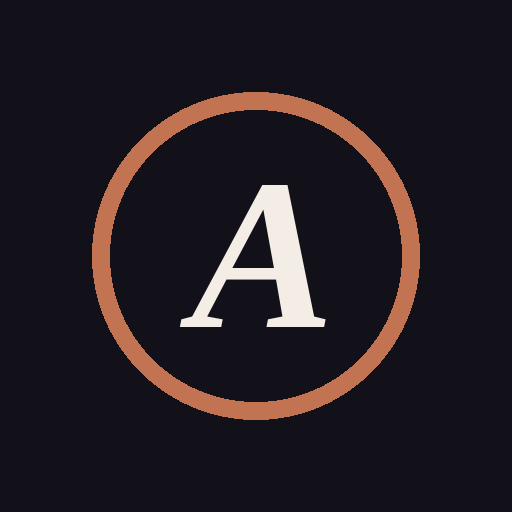
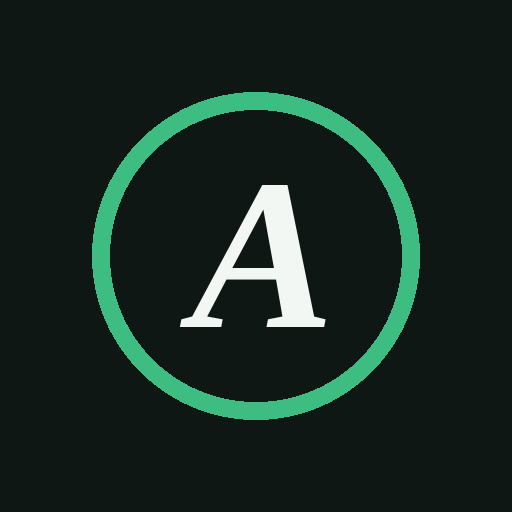
Paletas: se quita Terracota, Bosque pasa a ser la de serie y se añade Nude rosa; icono y web en verde
Claude-Session: https://claude.ai/code/session_01FaLb4RmPz5LiHvw63dEbow

Changed region(s): [[0.1562, 0.1562, 0.8438, 0.8438]]

diff --git a/app.js b/app.js
@@ -47,16 +47,16 @@ function render(){
   if(_rendering){setTimeout(render,0);return;}
   _rendering=true;try{_render();}finally{_rendering=false;}
 }
-const PALS={terracota:["Terracota","Cálida y sobria",["#121019","#C17352","#E8956F"]],bosque:["Bosque","Verde: calma y menos esfuerzo percibido",["#0E1713","#3DBE82","#6FDBA5"]],energia:["Energía","Grafito y naranja vivo",["#0F0F11","#FF7A1A","#FF9A4D"]],oceano:["Océano","Azul turquesa, fría y limpia",["#0C1620","#2BB6D6","#6AD3EA"]]};
+const PALS={bosque:["Bosque","Verde: calma y menos esfuerzo percibido",["#0E1713","#3DBE82","#6FDBA5"]],energia:["Energía","Grafito y naranja vivo",["#0F0F11","#FF7A1A","#FF9A4D"]],oceano:["Océano","Azul turquesa, fría y limpia",["#0C1620","#2BB6D6","#6AD3EA"]],nude:["Nude rosa","Tonos nude y rosa, suave y cálida",["#FAF3EF","#E59AA6","#A8455E"]]};
 function applyDisplay(){
   const u=S.ui||{};const t=u.theme||"oscuro";
   const light=t==="claro"||(t==="auto"&&window.matchMedia&&matchMedia("(prefers-color-scheme: light)").matches);
-  const r=document.documentElement;r.dataset.theme=light?"light":"dark";r.dataset.size=u.size==="grande"?"big":"normal";r.dataset.pal=PALS[u.pal]?u.pal:"terracota";
-  const m=document.querySelector('meta[name="theme-color"]');if(m)m.content=getComputedStyle(r).getPropertyValue("--bg").trim()||(light?"#F6F2EC":"#121019");
+  const r=document.documentElement;r.dataset.theme=light?"light":"dark";r.dataset.size=u.size==="grande"?"big":"normal";r.dataset.pal=PALS[u.pal]?u.pal:"bosque";
+  const m=document.querySelector('meta[name="theme-color"]');if(m)m.content=getComputedStyle(r).getPropertyValue("--bg").trim()||(light?"#F1F6F2":"#0E1713");
 }
 function displayCard(){const u=S.ui||{};const b=(k,v,t)=>`<button class="${(u[k]||(k==="theme"?"oscuro":"normal"))===v?"on":""}" data-a="uiSet" data-k="${k}" data-v="${v}">${t}</button>`;
   return `<div class="card stack"><span class="lbl">Pantalla</span><div class="field"><span>Tema</span><div class="seg">${b("theme","oscuro","Oscuro")}${b("theme","claro","Claro")}${b("theme","auto","Como el móvil")}</div><span class="hint">El claro se lee mejor con sol o mucha luz, por ejemplo en el gimnasio.</span></div>
-  <div class="field"><span>Estilo de color</span><div class="pals">${Object.entries(PALS).map(([k,[t,d,c]])=>`<button type="button" class="pal ${(u.pal||"terracota")===k?"on":""}" data-a="uiSet" data-k="pal" data-v="${k}"><span class="sw">${c.map(x=>`<i style="background:${x}"></i>`).join("")}</span><span><b>${t}</b><small>${d}</small></span></button>`).join("")}</div><span class="hint">Prueba uno unos días. Se aplica a todo, también al modo claro.</span></div>
+  <div class="field"><span>Estilo de color</span><div class="pals">${Object.entries(PALS).map(([k,[t,d,c]])=>`<button type="button" class="pal ${(PALS[u.pal]?u.pal:"bosque")===k?"on":""}" data-a="uiSet" data-k="pal" data-v="${k}"><span class="sw">${c.map(x=>`<i style="background:${x}"></i>`).join("")}</span><span><b>${t}</b><small>${d}</small></span></button>`).join("")}</div><span class="hint">Prueba uno unos días. Se aplica a todo, también al modo claro.</span></div>
   <div class="field"><span>Dieta, compra y recetas</span><div class="seg">${b("nutri","si","Activadas").replace('data-a="uiSet"','data-a="nutriSet"').replace(/class="[^"]*"/,`class="${NUTRI?"on":""}"`)}${b("nutri","no","Desactivadas").replace('data-a="uiSet"','data-a="nutriSet"').replace(/class="[^"]*"/,`class="${NUTRI?"":"on"}"`)}</div><span class="hint">Menú semanal con tus calorías y macros, lista de la compra y recetas sencillas. Es opcional: el entrenamiento funciona igual sin ello.</span></div>
   <div class="field"><span>Tamaño de letra</span><div class="seg">${b("size","normal","Normal")}${b("size","grande","Grande")}</div></div></div>`;}
 function isLight(){const t=(S.ui||{}).theme||"oscuro";return t==="claro"||(t==="auto"&&window.matchMedia&&matchMedia("(prefers-color-scheme: light)").matches);}

diff --git a/web/web.html b/web/web.html
@@ -3,12 +3,12 @@
 <meta name="viewport" content="width=device-width,initial-scale=1">
 <title>Afina · Entrena con un plan que sabe cuánto levantas</title>
 <meta name="description" content="Afina es una app de entrenamiento que reconoce tu nivel y te da el peso con el que empezar. Plan de gimnasio, Hyrox, CrossFit, calistenia, paddle surf y fascias. Sin cuenta y con tus datos en tu móvil.">
-<meta name="theme-color" content="#121019"><link rel="icon" href="icon-192.png"><link rel="apple-touch-icon" href="icon-512.png">
+<meta name="theme-color" content="#0E1713"><link rel="icon" href="icon-192.png"><link rel="apple-touch-icon" href="icon-512.png">
 <meta property="og:title" content="Afina"><meta property="og:description" content="Un plan de entrenamiento que sabe cuánto levantas."><meta property="og:image" content="icon-512.png">
 <link rel="preconnect" href="https://fonts.googleapis.com"><link rel="preconnect" href="https://fonts.gstatic.com" crossorigin>
 <link rel="stylesheet" href="https://fonts.googleapis.com/css2?family=Playfair+Display:wght@600;700&family=Instrument+Sans:wght@400;500;600;700&display=swap">
 <style>
-:root{--bg:#121019;--surface:#1B1823;--sunk:#25202E;--hero:#261F34;--ink:#FAF6F1;--muted:#C2BBCB;--line:#3A3446;--accent:#C17352;--accent-t:#E8956F;--accent-ink:#FFF6F0;
+:root{--bg:#0E1713;--surface:#16231D;--sunk:#1E2E26;--hero:#1A2B22;--ink:#F2F7F3;--muted:#B4C4BA;--line:#2F4439;--accent:#3DBE82;--accent-t:#6FDBA5;--accent-ink:#06150D;
 --fd:"Playfair Display",Georgia,serif;--fb:"Instrument Sans",system-ui,-apple-system,"Segoe UI",sans-serif;color-scheme:dark}
 *{box-sizing:border-box}html{scroll-behavior:smooth}
 body{margin:0;background:var(--bg);color:var(--ink);font-family:var(--fb);font-size:17px;line-height:1.55;-webkit-font-smoothing:antialiased}
@@ -18,7 +18,7 @@ header{display:flex;align-items:center;justify-content:space-between;padding:18p
 .brand{display:flex;align-items:center;gap:10px;font-family:var(--fd);font-size:1.35rem;font-weight:700;color:var(--ink);text-decoration:none}
 .brand img{width:34px;height:34px;border-radius:9px}
 .btn{display:inline-flex;align-items:center;justify-content:center;min-height:50px;padding:0 24px;border-radius:14px;font-weight:600;font-size:1rem;text-decoration:none;border:1px solid var(--line);color:var(--ink);background:var(--surface)}
-.btn.pri{background:var(--accent);border-color:var(--accent);color:var(--accent-ink);box-shadow:0 10px 30px -12px rgba(193,115,82,.8)}
+.btn.pri{background:var(--accent);border-color:var(--accent);color:var(--accent-ink);box-shadow:0 10px 30px -12px rgba(61,190,130,.55)}
 .btn.sm{min-height:40px;padding:0 16px;font-size:.92rem}
 h1,h2,h3{font-family:var(--fd);letter-spacing:-.01em;text-wrap:balance;margin:0}
 h1{font-size:clamp(2.2rem,6.4vw,3.9rem);line-height:1.06}
@@ -30,7 +30,7 @@ h3{font-size:1.2rem}
 .hero p.lead{font-size:1.15rem;color:var(--muted);max-width:34em;margin:18px 0 26px}
 .cta{display:flex;gap:12px;flex-wrap:wrap}
 .note{font-size:.88rem;color:var(--muted);margin-top:14px}
-.phone{width:min(300px,78vw);margin:0 auto;border-radius:38px;padding:10px;background:linear-gradient(160deg,#3a3446,#1b1823);box-shadow:0 40px 80px -30px rgba(0,0,0,.9),0 0 0 1px #453e52}
+.phone{width:min(300px,78vw);margin:0 auto;border-radius:38px;padding:10px;background:linear-gradient(160deg,#2f4439,#16231d);box-shadow:0 40px 80px -30px rgba(0,0,0,.9),0 0 0 1px #3a5245}
 .phone img{border-radius:29px;width:100%}
 section{padding:58px 0;border-top:1px solid var(--line)}
 .split{display:grid;grid-template-columns:1fr 1fr;gap:44px;align-items:center}

diff --git a/style.css b/style.css
@@ -1,7 +1,7 @@
 /* Layout: app de una columna centrada; barra inferior en móvil, barra lateral en escritorio */
 :root{
-  --bg:#121019; --surface:#1B1823; --sunk:#25202E; --hero:#261F34; --ink:#FAF6F1; --muted:#C2BBCB; --line:#3A3446;
-  --accent:#C17352; --accent-t:#E8956F; --accent-ink:#FFF6F0; --accent-soft:#3F2921;
+  --bg:#0E1713; --surface:#16231D; --sunk:#1E2E26; --hero:#1A2B22; --ink:#F2F7F3; --muted:#B4C4BA; --line:#2F4439;
+  --accent:#3DBE82; --accent-t:#6FDBA5; --accent-ink:#06150D; --accent-soft:#1B3A2C;
   --ok:#7DC59C; --ok-soft:#1C3227; --warn:#E3AA5A; --warn-soft:#382B19; --bad:#E7826E; --bad-soft:#3C201C;
   --prot:#E39A78; --fat:#E2B65C; --carb:#8EA9DD;
   --f-display:"Playfair Display",Georgia,"Times New Roman",serif;
@@ -308,7 +308,7 @@ a{color:var(--accent)}
 .medal .inner{fill:none;stroke:var(--line);stroke-width:1}
 .medal.bronce .disc{fill:#a8703f;stroke:#c98d57}.medal.bronce .rib{fill:#7a4f2c}
 .medal.plata .disc{fill:#9ea4ad;stroke:#c9ced6}.medal.plata .rib{fill:#6d737c}
-.medal.oro .disc{fill:#c99a2e;stroke:#e8c25a}.medal.oro .rib{fill:#C17352}
+.medal.oro .disc{fill:#c99a2e;stroke:#e8c25a}.medal.oro .rib{fill:var(--accent)}
 .medal.platino .disc{fill:#8fc9c4;stroke:#c5ece8}.medal.platino .rib{fill:#4f8f8a}
 .medal:not(.off) .inner{stroke:rgba(255,255,255,.45)}
 .medal.off{opacity:.55}
@@ -347,8 +347,8 @@ ol.mob li span{display:block}
 
 /* ===== Tema claro y tamaño de letra ===== */
 :root[data-theme="light"]{
-  --bg:#F6F2EC; --surface:#FFFFFF; --sunk:#EFE8E0; --hero:#F7EAE1; --ink:#1C1820; --muted:#57505F; --line:#D9CFC4;
-  --accent:#A9532F; --accent-t:#9A4A29; --accent-ink:#FFFFFF; --accent-soft:#F7E2D7;
+  --bg:#F1F6F2; --surface:#FFFFFF; --sunk:#E6EEE8; --hero:#E3F0E8; --ink:#14201A; --muted:#4B5A51; --line:#CCD9D0;
+  --accent:#17663F; --accent-t:#145C39; --accent-ink:#FFFFFF; --accent-soft:#DDF0E5;
   --ok:#2C7A4F; --ok-soft:#E0F1E6; --warn:#8F5A0C; --warn-soft:#FBEED6; --bad:#B23E2A; --bad-soft:#FBE3DD;
   --prot:#C0613C; --fat:#A87B12; --carb:#4466A8; color-scheme:light;
 }
@@ -406,6 +406,8 @@ ol.simple-ex li span{display:block}
 :root[data-theme="light"][data-pal="energia"]{--bg:#F5F5F4;--surface:#FFFFFF;--sunk:#ECECEA;--hero:#FFF0E3;--ink:#17171A;--muted:#55555C;--line:#D6D6D2;--accent:#A84408;--accent-t:#9A3F07;--accent-ink:#FFFFFF;--accent-soft:#FFE6D2}
 :root[data-theme="dark"][data-pal="oceano"]{--bg:#0C1620;--surface:#142230;--sunk:#1B2D3E;--hero:#16283A;--ink:#F1F7FB;--muted:#B3C3D1;--line:#2B4157;--accent:#2BB6D6;--accent-t:#6AD3EA;--accent-ink:#031219;--accent-soft:#12394A}
 :root[data-theme="light"][data-pal="oceano"]{--bg:#F0F6FA;--surface:#FFFFFF;--sunk:#E4EDF3;--hero:#E0F0F7;--ink:#12202B;--muted:#4A5B69;--line:#C9D8E3;--accent:#0B6B85;--accent-t:#09607A;--accent-ink:#FFFFFF;--accent-soft:#D9EEF5}
+:root[data-theme="dark"][data-pal="nude"]{--bg:#191316;--surface:#231B1F;--sunk:#2D2328;--hero:#33252B;--ink:#FBF3F1;--muted:#CDBBBD;--line:#46363C;--accent:#E59AA6;--accent-t:#F2B6BF;--accent-ink:#2B1218;--accent-soft:#4A2932}
+:root[data-theme="light"][data-pal="nude"]{--bg:#FAF3EF;--surface:#FFFFFF;--sunk:#F3E7E1;--hero:#F7E3DE;--ink:#2B1D20;--muted:#6A5458;--line:#E6D3CD;--accent:#A8455E;--accent-t:#983A53;--accent-ink:#FFFFFF;--accent-soft:#F8DDE1}
 .pals{display:grid;grid-template-columns:repeat(2,minmax(0,1fr));gap:8px}
 .pal{display:flex;align-items:center;gap:10px;padding:10px;border-radius:12px;border:1.5px solid var(--line);background:var(--surface);color:var(--ink);text-align:left;font:inherit;cursor:pointer}
 .pal.on{border-color:var(--accent);background:var(--accent-soft)}

diff --git a/build.js b/build.js
@@ -16,7 +16,7 @@ fs.writeFileSync(path.join(dist,'index.html'),`<!doctype html>
 <html lang="es"><head><meta charset="utf-8">
 <meta name="viewport" content="width=device-width,initial-scale=1,viewport-fit=cover">
 <title>Afina</title><meta name="description" content="Aprende a comer. Vive más y mejor.">
-<meta name="theme-color" content="#121019"><meta name="apple-mobile-web-app-capable" content="yes">
+<meta name="theme-color" content="#0E1713"><meta name="apple-mobile-web-app-capable" content="yes">
 <meta name="apple-mobile-web-app-status-bar-style" content="black-translucent"><meta name="apple-mobile-web-app-title" content="Afina">
 <link rel="manifest" href="manifest.json"><link rel="apple-touch-icon" href="icon-512.png"><link rel="icon" href="icon-192.png">
 ${fonts}
@@ -25,7 +25,7 @@ ${css}</style></head><body>
 ${body}
 ${pwa}
 </body></html>`);
-fs.writeFileSync(path.join(dist,'manifest.json'),JSON.stringify({name:"Afina",short_name:"Afina",description:"Aprende a comer. Vive más y mejor.",start_url:"./",scope:"./",display:"standalone",background_color:"#121019",theme_color:"#121019",lang:"es",icons:[{src:"icon-192.png",sizes:"192x192",type:"image/png"},{src:"icon-512.png",sizes:"512x512",type:"image/png",purpose:"any maskable"}]},null,2));
+fs.writeFileSync(path.join(dist,'manifest.json'),JSON.stringify({name:"Afina",short_name:"Afina",description:"Aprende a comer. Vive más y mejor.",start_url:"./",scope:"./",display:"standalone",background_color:"#0E1713",theme_color:"#0E1713",lang:"es",icons:[{src:"icon-192.png",sizes:"192x192",type:"image/png"},{src:"icon-512.png",sizes:"512x512",type:"image/png",purpose:"any maskable"}]},null,2));
 
 fs.writeFileSync(path.join(dist,'sw.js'),`const C="afina-${ver}";
 self.addEventListener("install",e=>{e.waitUntil(caches.open(C).then(c=>c.addAll(["./","index.html","manifest.json","icon-192.png","icon-512.png"])));self.skipWaiting();});

diff --git a/web/privacidad.html b/web/privacidad.html
@@ -2,11 +2,11 @@
 <html lang="es"><head><meta charset="utf-8">
 <meta name="viewport" content="width=device-width,initial-scale=1">
 <title>Privacidad · Afina</title><meta name="description" content="Qué datos usa Afina y dónde se guardan.">
-<meta name="theme-color" content="#121019"><link rel="icon" href="icon-192.png">
+<meta name="theme-color" content="#0E1713"><link rel="icon" href="icon-192.png">
 <link rel="preconnect" href="https://fonts.googleapis.com"><link rel="preconnect" href="https://fonts.gstatic.com" crossorigin>
 <link rel="stylesheet" href="https://fonts.googleapis.com/css2?family=Playfair+Display:wght@600;700&family=Instrument+Sans:wght@400;500;600;700&display=swap">
 <style>
-:root{--bg:#121019;--ink:#FAF6F1;--muted:#C2BBCB;--line:#3A3446;--accent-t:#E8956F;color-scheme:dark}
+:root{--bg:#0E1713;--ink:#F2F7F3;--muted:#B4C4BA;--line:#2F4439;--accent-t:#6FDBA5;color-scheme:dark}
 *{box-sizing:border-box}body{margin:0;background:var(--bg);color:var(--ink);font-family:"Instrument Sans",system-ui,-apple-system,"Segoe UI",sans-serif;font-size:17px;line-height:1.6}
 .wrap{max-width:720px;margin:0 auto;padding:24px 22px 60px}
 a{color:var(--accent-t)}h1,h2{font-family:"Playfair Display",Georgia,serif;margin:0}

diff --git a/compartir.js b/compartir.js
@@ -86,7 +86,7 @@ function shareFit(ctx,text,maxW){let t=String(text);if(ctx.measureText(t).width<
 function drawShareCard(p,e,quote){
   const W=1080,H=1920;const c=document.createElement("canvas");c.width=W;c.height=H;const x=c.getContext("2d");
   const css=getComputedStyle(document.documentElement);const v=(n,d)=>(css.getPropertyValue(n)||d).trim()||d;
-  const bg=v("--bg","#121019"),hero=v("--hero","#261F34"),ink=v("--ink","#FAF6F1"),muted=v("--muted","#C2BBCB"),acc=v("--accent","#C17352"),accT=v("--accent-t","#E8956F"),line=v("--line","#3A3446");
+  const bg=v("--bg","#0E1713"),hero=v("--hero","#1A2B22"),ink=v("--ink","#F2F7F3"),muted=v("--muted","#B4C4BA"),acc=v("--accent","#3DBE82"),accT=v("--accent-t","#E8956F"),line=v("--line","#3A3446");
   const serif='"Playfair Display",Georgia,"Times New Roman",serif',sans='"Instrument Sans",ui-sans-serif,system-ui,-apple-system,"Segoe UI",sans-serif';
   const gr=x.createLinearGradient(0,0,0,H);gr.addColorStop(0,hero);gr.addColorStop(0.55,bg);gr.addColorStop(1,bg);x.fillStyle=gr;x.fillRect(0,0,W,H);
   x.fillStyle=acc;x.globalAlpha=0.9;x.fillRect(80,150,90,6);x.globalAlpha=1;
